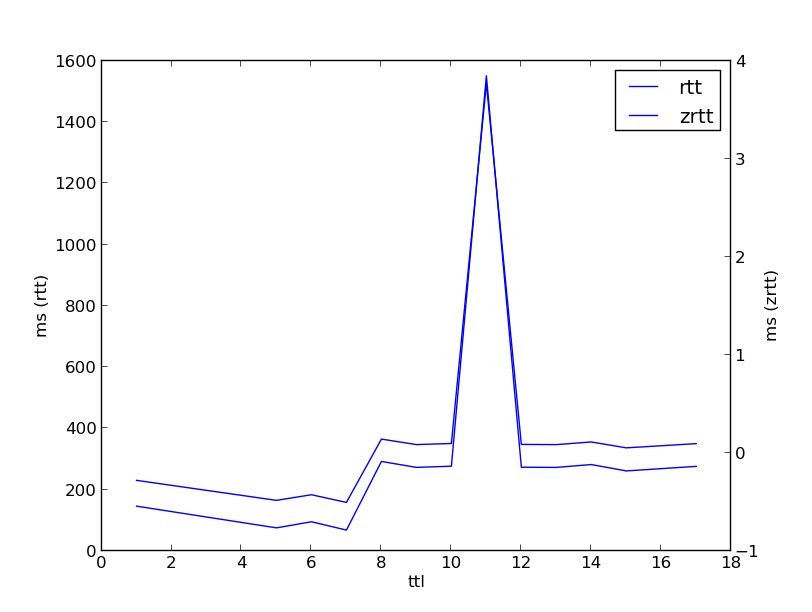
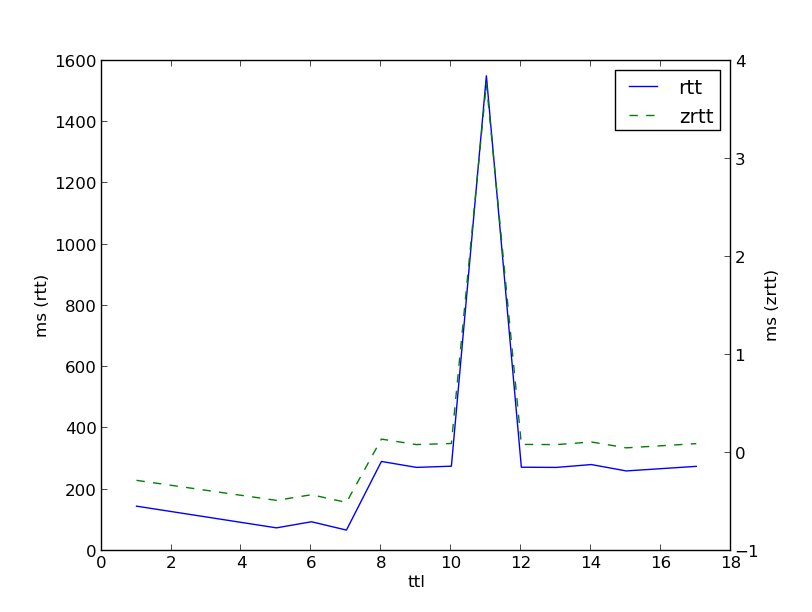
Graficos

diff --git a/src/ipplotter.py b/src/ipplotter.py
@@ -55,7 +55,7 @@ def zrtt(archivo):
 	zrtt_fig.set_ylabel('ms (zrtt)')
 
 	line1, = rtt_fig.plot(ttl, rtt)
-	line2, = zrtt_fig.plot(ttl, zrtt)
+	line2, = zrtt_fig.plot(ttl, zrtt, color='green', linestyle='dashed')
 	rtt_fig.legend([line1, line2], ['rtt', 'zrtt'])
 
 	plt.show()
@@ -92,8 +92,8 @@ def main():
 		'samoa_1405270238_api2.csv',
 		'samoa_1405270338_api2.csv'
 	]
-	zrtt(archivos[9])
-	#rtt_promedio_dia(archivos[9:12])
+	zrtt(archivos[0])
+	#rtt_promedio_dia(archivos[0:3])
 	return
 
 if __name__ == "__main__":
